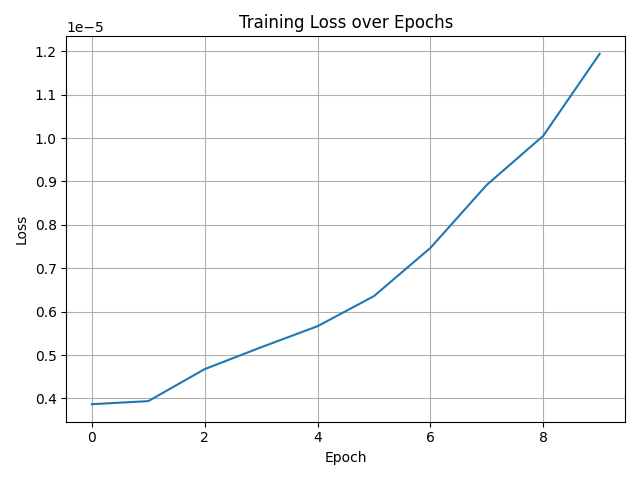
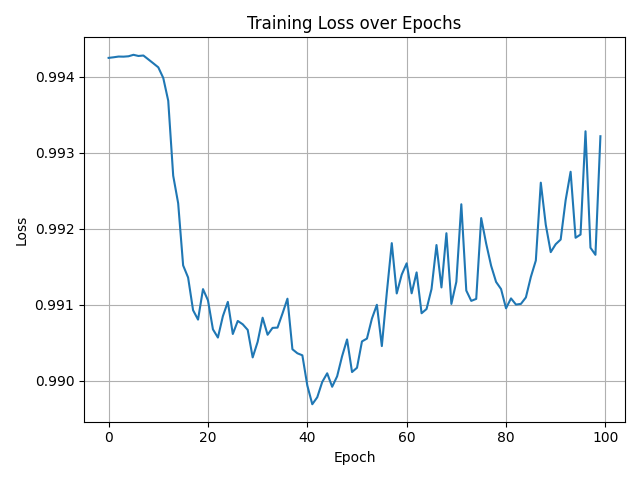
0 indexing enum

diff --git a/gastrulation/preprocessing.py b/gastrulation/preprocessing.py
@@ -6,11 +6,13 @@ from torch import Tensor
 import os
 import torch
 
-RESO_FUCKING_LUTION = 15
+# Gride size is the size of the 3d tensor we constructing for preprocessing into model and learning.
+# also have a const value since we using range to account for 0 indexing.
+GRID_SIZE = 16
+GRID_SIZE_0_INDEXING = GRID_SIZE - 1
 
-
-# Load the data
-# 323-59 = 264 (THERE ARE 264 UNIQUE IMAGES) 265 LOL
+# Preprocessing is used to load the data from a huge csv file which is a database consisting of multiple point cloud 'frames'.
+# In the database there are 265 unique 'frames' spanning from start to end.
 
 def visualise(iterations, filenameBase="gastrulation_animation", save=True, show=False):
     import matplotlib.animation as animation
@@ -43,17 +45,13 @@ def visualise(iterations, filenameBase="gastrulation_animation", save=True, show
                             alpha=0.8, s=2)
         
         # Set consistent view
-        ax.set_xlim(0, RESO_FUCKING_LUTION)
-        ax.set_ylim(0, RESO_FUCKING_LUTION)
-        ax.set_zlim(0, RESO_FUCKING_LUTION)
+        ax.set_xlim(0, GRID_SIZE_0_INDEXING)
+        ax.set_ylim(0, GRID_SIZE_0_INDEXING)
+        ax.set_zlim(0, GRID_SIZE_0_INDEXING)
         ax.set_xlabel('X')
         ax.set_ylabel('Y')
         ax.set_zlabel('Z')
         ax.set_title(f"Frame {frame_idx}")
-        
-        # Add colorbar
-        # if frame_idx == 0:
-        #     fig.colorbar(scatter, ax=ax, label='Density')
             
     if save:
         ani = animation.FuncAnimation(fig, update, frames=len(tensors_array), 
@@ -68,10 +66,6 @@ def visualise(iterations, filenameBase="gastrulation_animation", save=True, show
         
     plt.close(fig)
     return
-
-'''
-USING IQR WE FOUND 800~ outliers probably bullshit (not actually outliers)
-'''
 
 def preprocessing():
 
@@ -110,19 +104,16 @@ def preprocessing():
 
     for axis in ['x', 'y', 'z']:
         print(axis)
-        data[axis] = RESO_FUCKING_LUTION* (data[axis] - global_min) / (global_max - global_min)
+        data[axis] = GRID_SIZE_0_INDEXING * (data[axis] - global_min) / (global_max - global_min)
 
     # Per axis normalisation
     # for axis in ['x', 'y', 'z']:
     #     min_val = data[axis].min()
     #     max_val = data[axis].max()
-    #     data[axis] = RESO_FUCKING_LUTION * (data[axis] - min_val) / (max_val - min_val)
+    #     data[axis] = GRID_SIZE_0_INDEXING * (data[axis] - min_val) / (max_val - min_val)
 
     # sort data by x values
     data = data.sort_values(by=['x', 'y', 'z'])
-    # print the max of the sorted
-    # print(data["x"])
-    # print("POST NORM", data[['x', 'y', 'z']].describe())
 
     # Get the unique sorted 't' values
     unique_t_values = sorted(data['t'].unique())
@@ -141,7 +132,7 @@ def preprocessing():
     # batch, channels, x, y, z
 
     for index, dataframe in enumerate(iterations):
-        three_dee = np.zeros([RESO_FUCKING_LUTION+1, RESO_FUCKING_LUTION+1, RESO_FUCKING_LUTION+1], dtype=np.int32)
+        three_dee = np.zeros([GRID_SIZE, GRID_SIZE, GRID_SIZE], dtype=np.int32)
         # going through a row in the dataframe and add the corresponding integer value (eg round it)
         # to that corresponding position in the three dee tensor 
         for i, row in dataframe.iterrows():
@@ -149,20 +140,17 @@ def preprocessing():
             y = int(row['y'])
             z = int(row['z'])
             three_dee[x, y, z] += 1  # Increment for density counting
-            if x < 0 or x >= RESO_FUCKING_LUTION or y < 0 or y >= RESO_FUCKING_LUTION or z < 0 or z >= RESO_FUCKING_LUTION:
+            if x < 0 or x >= GRID_SIZE_0_INDEXING or y < 0 or y >= GRID_SIZE_0_INDEXING or z < 0 or z >= GRID_SIZE_0_INDEXING:
                 print(f"Out of bounds: x={x}, y={y}, z={z} for index {index} in iteration {index}")
                 continue
-        # print(f"Iteration {index}: {len(dataframe)} points, max value in 3D tensor: {np.max(three_dee)}")
         # Normalize the tensor
         # three_dee = three_dee.astype(np.float32) / np.max(three_dee)
-        # print(three_dee)
         print("done iteration", index)
         voxels.append(three_dee)
 
 
     max_val = max([np.max(voxel) for voxel in voxels])
     voxels = [voxel/max_val for voxel in voxels]
-    # print(max_val)
 
     if max_val > 0:  # Avoid division by zero
         iterations = [tensor.astype(np.float32) / max_val for tensor in voxels]
@@ -173,20 +161,19 @@ def preprocessing():
     # we are trying to store a list of each input tensor to the model, where each index of this storage is a frame from the mouse embryo development.
     # this should be a tensor which can be inputted/outputted by the model.
     # we want to fit the alpha mask into this input_image variable. 
-    #  
 
     images = []
     
     for tensor in voxels:
         # Create the input_image tensor
-        input_image = torch.zeros(BATCH_SIZE, CHANNELS, RESO_FUCKING_LUTION+1, RESO_FUCKING_LUTION+1, RESO_FUCKING_LUTION+1)
+        input_image = torch.zeros(BATCH_SIZE, CHANNELS, GRID_SIZE, GRID_SIZE, GRID_SIZE)
         tensor = torch.tensor(tensor, dtype=torch.float32)  # Convert to PyTorch tensor if it's not already
         input_image[:, 0, :, :, :] = tensor  # Assign the 3D tensor to the first channel (alpha mask)
         images.append(input_image)
 
 
     # Minimise Voxel
-    min_bounds = (RESO_FUCKING_LUTION, RESO_FUCKING_LUTION, RESO_FUCKING_LUTION)
+    min_bounds = (GRID_SIZE_0_INDEXING, GRID_SIZE_0_INDEXING, GRID_SIZE_0_INDEXING)
     max_bounds = (0, 0, 0)
 
     for iteration in images:
@@ -225,7 +212,6 @@ def preprocess():
 
     print("No data array, preprocess it all")
     data = preprocessing()
-    # visualise(data, save=False, show=True)
     if os.path.exists(tensor_path):
         os.remove(tensor_path)  
     print("WRITING SAVE")
